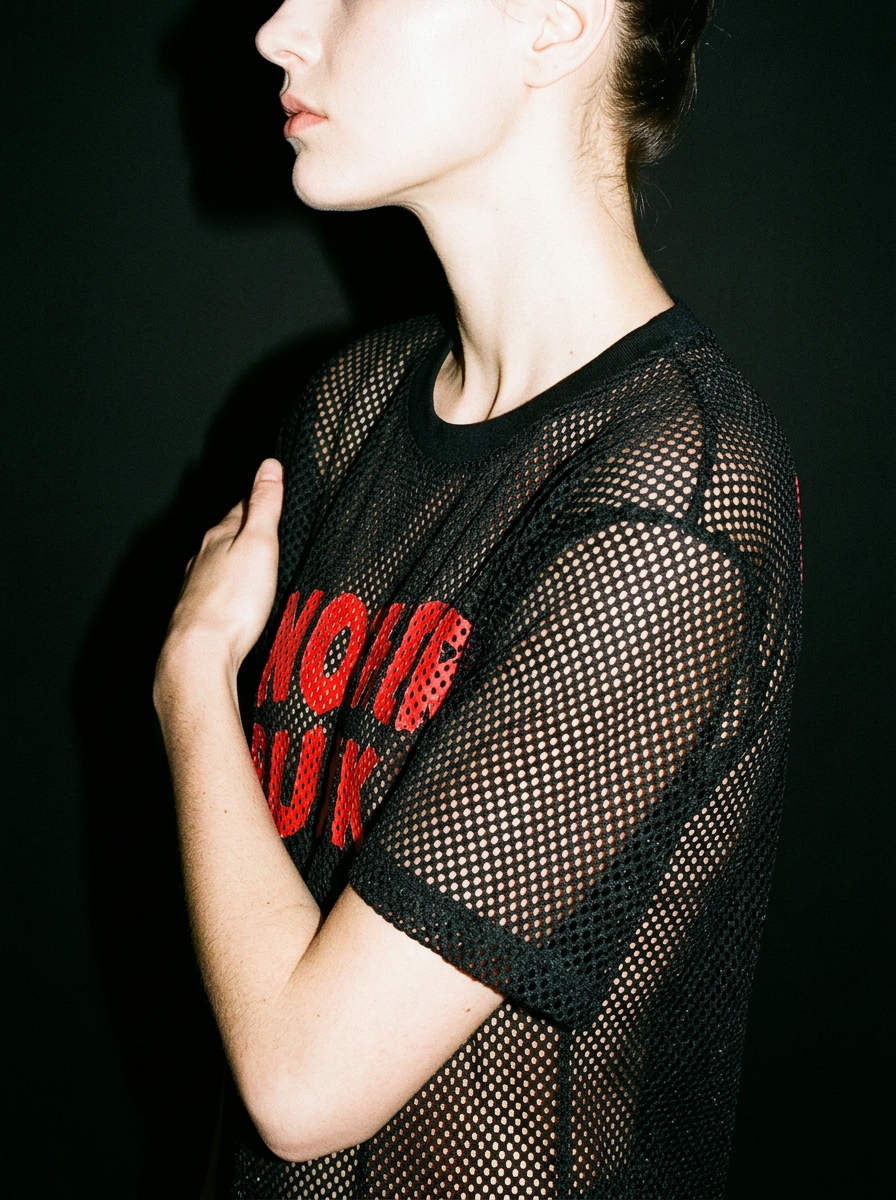
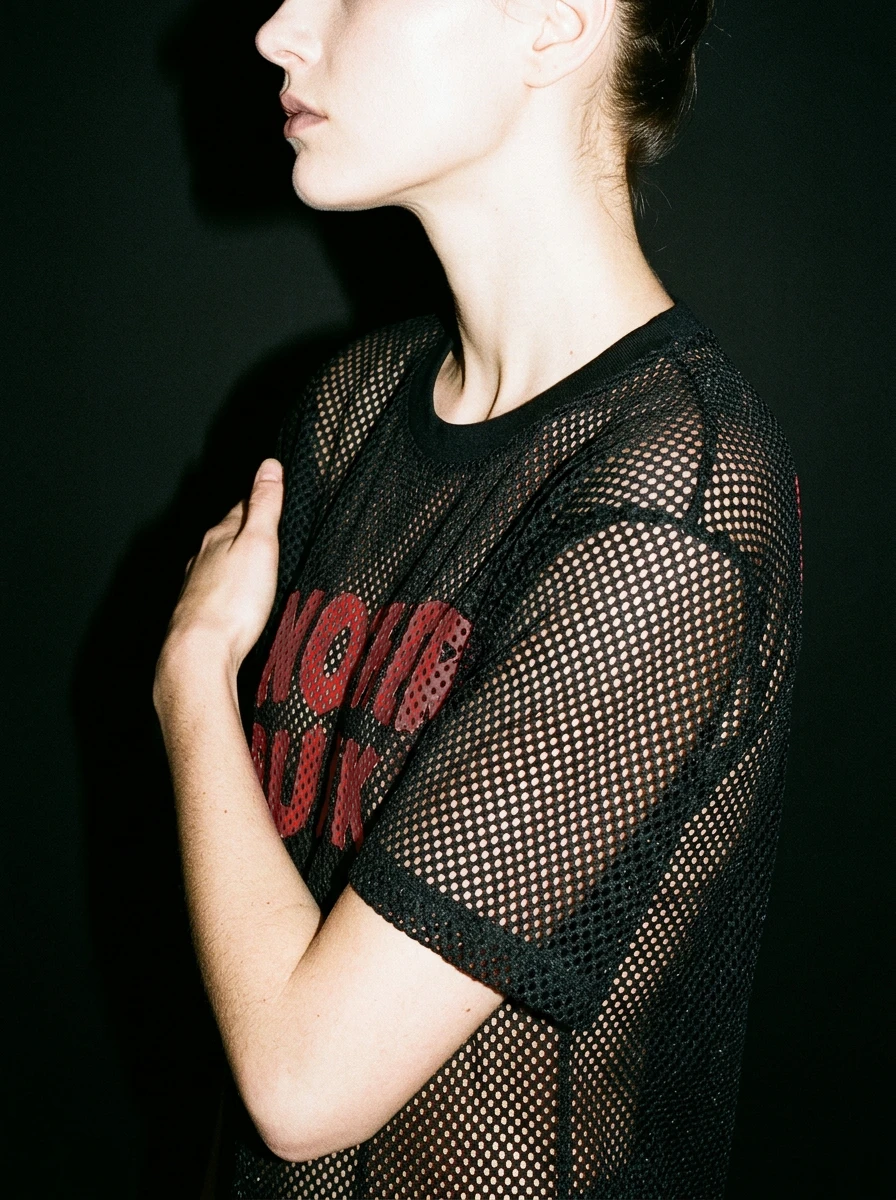
Fill out the thin products, and take Sam's red correction on the mesh
Ten more frames: both Staples had two images each and now have five and
four, Surrender Dorothy had two and now has four, plus the mesh back shot
that moderation refused twice until the sheer framing was dropped.

Sam colour-corrected the two mesh shots himself and those files replace
mine at the same paths. His red is the real ink; mine was a global
saturation cut and read flatter.

Every wordmark checked before it went in. TOUNGE BOX survived again:
"reproduce exactly, do not correct or respell" is what preserves it.

Changed region(s): [[0.2812, 0.4933, 0.5312, 0.7092], [0.3125, 0.0617, 0.375, 0.1233]]

diff --git a/src/lib/another-punk-products.ts b/src/lib/another-punk-products.ts
@@ -132,6 +132,7 @@ export const ANOTHER_PUNK_PRODUCTS: AnotherPunkProduct[] = [
       "/img/140-jersey-pink-chest-flash.jpg",
       "/img/141-jersey-pink-back-69.jpg",
       "/img/152-jersey-pair-night.jpg",
+      "/img/202-westwood-pink-shelter.png",
     ],
     // The pair shot belongs to both jerseys, so it would otherwise float in
     // the field twice — the one photograph on the homepage that visibly
@@ -231,7 +232,8 @@ export const ANOTHER_PUNK_PRODUCTS: AnotherPunkProduct[] = [
       "/img/70-tonguebox-chest-flash.jpg",
       "/img/71-tonguebox-threequarter.jpg",
       "/img/72-tonguebox-night-neon.jpg",
-          "/img/178-rawhem-back-shared.png",
+      "/img/178-rawhem-back-shared.png",
+      "/img/201-tonguebox-crosswalk.png",
     ],
     sizes: FOUR,
     shopifyProductId: "15942008799563",
@@ -276,14 +278,11 @@ export const ANOTHER_PUNK_PRODUCTS: AnotherPunkProduct[] = [
     price: TEE_PRICE,
     cost: 18.47,
     images: [
-      // The print is on the FRONT of this garment. Five shots here showed it
-      // across the BACK — 26-back-full, 04-threequarter-turn,
-      // 36-night-takeaway, 59-spin and 70-wide-negspace — which is a product
-      // that does not exist. Each remaining image was opened and checked
-      // rather than judged by filename. Files stay on disk.
       "https://d2ol7oe51mr4n9.cloudfront.net/user_3HRrQejbudj6pI84kgTHMOExU4K/4ca18e68-84f4-42c7-98a5-f5e547502ce2.png",
       "/img/53-dorothy-chest-crop.jpg",
-          "/img/178-rawhem-back-shared.png",
+      "/img/178-rawhem-back-shared.png",
+      "/img/199-dorothy-launderette.png",
+      "/img/200-dorothy-chest-crop.png",
     ],
     sizes: FOUR,
     shopifyProductId: "15942008963403",
@@ -454,6 +453,8 @@ export const ANOTHER_PUNK_PRODUCTS: AnotherPunkProduct[] = [
       "/img/163-plainwhite-night-street.jpg",
       "/img/164-plainwhite-sleeve.jpg",
       "/img/183-staple-white-back.png",
+      "/img/195-staple-white-night.png",
+      "/img/196-staple-white-daylight.png",
     ],
     notInField: ["/img/163-plainwhite-night-street.jpg", "/img/164-plainwhite-sleeve.jpg"],
     sizes: FIVE,
@@ -483,6 +484,8 @@ export const ANOTHER_PUNK_PRODUCTS: AnotherPunkProduct[] = [
       "/img/169-staple-black-street.jpg",
       "/img/170-staple-black-sleeve.jpg",
       "/img/184-staple-black-back.png",
+      "/img/197-staple-black-forecourt.png",
+      "/img/198-staple-black-profile.png",
     ],
     notInField: ["/img/169-staple-black-street.jpg", "/img/170-staple-black-sleeve.jpg"],
     sizes: FIVE,
@@ -538,6 +541,8 @@ export const ANOTHER_PUNK_PRODUCTS: AnotherPunkProduct[] = [
       "/img/171-mesh-print-macro.jpg",
       "/img/07-mesh-walking-blur.jpg",
       "/img/191-mesh-front-woman.png",
+      "/img/193-mesh-front-bandeau.png",
+      "/img/194-mesh-back.png",
     ],
     sizes: FOUR,
     shopifyProductId: "15943646740811",
